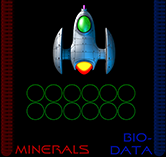
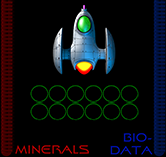
Lightnings are now visible in hires4x. Transport captain is now visible in hires4x. Crew balls (and red dead crew balls) now align perfectly in lander UI. Also created a lame-ass lander afterburner gfx for the UI (Lander-057.png)... Damon, I can bet my sweet ass you can draw a better one. Also requi

Changed region(s): [[0.1506, 0.535, 0.8434, 0.7643]]

diff --git a/sc2/src/uqm/planets/lander.c b/sc2/src/uqm/planets/lander.c
@@ -754,8 +754,8 @@ DeltaLanderCrew (SIZE crew_delta, COUNT which_disaster)
 	}
 	else
 	{
-		s.origin.x = 27 + ((9 * RESOLUTION_FACTOR) * (crew_delta % NUM_CREW_COLS)); // JMS_GFX
-		s.origin.y = (53 * RESOLUTION_FACTOR - (9 * RESOLUTION_FACTOR * (crew_delta / NUM_CREW_COLS))) - 3; // JMS_GFX
+		s.origin.x = 32 + ((9 * RESOLUTION_FACTOR) * (crew_delta % NUM_CREW_COLS)); // JMS_GFX
+		s.origin.y = (52 * RESOLUTION_FACTOR - (9 * RESOLUTION_FACTOR * (crew_delta / NUM_CREW_COLS))); // JMS_GFX
 	}
 
 	OldContext = SetContext (RadarContext);
@@ -1466,6 +1466,7 @@ AddLightning (void)
 		LightningElementPtr->playerNr = PS_NON_PLAYER;
 		LightningElementPtr->state_flags = FINITE_LIFE;
 		LightningElementPtr->preprocess_func = lightning_process;
+		
 		if (TFB_Random () % 100 >= 25)
 			LightningElementPtr->mass_points = 0; /* harmless */
 		else
@@ -1473,14 +1474,29 @@ AddLightning (void)
 
 		rand_val = TFB_Random ();
 		LightningElementPtr->life_span = 10 + (HIWORD (rand_val) % 10) + 1;
-		LightningElementPtr->next.location.x = (curLanderLoc.x
+		
+		if (RESOLUTION_FACTOR == 0)
+		{
+			LightningElementPtr->next.location.x = (curLanderLoc.x
 				+ ((MAP_WIDTH << MAG_SHIFT) - ((SURFACE_WIDTH >> 1) - 6))
 				+ (LOBYTE (rand_val) % (SURFACE_WIDTH - 12))
 				) % (MAP_WIDTH << MAG_SHIFT);
-		LightningElementPtr->next.location.y = (curLanderLoc.y
+			LightningElementPtr->next.location.y = (curLanderLoc.y
 				+ ((MAP_HEIGHT << MAG_SHIFT) - ((SURFACE_HEIGHT >> 1) - 6))
 				+ (HIBYTE (rand_val) % (SURFACE_HEIGHT - 12))
 				) % (MAP_HEIGHT << MAG_SHIFT);
+		}
+		else
+		{
+			LightningElementPtr->next.location.x = (curLanderLoc.x
+				+ ((MAP_WIDTH << MAG_SHIFT) - ((SURFACE_WIDTH >> 1) - 6))
+				+ (rand_val % (SURFACE_WIDTH - (12 << RESOLUTION_FACTOR)))
+				) % (MAP_WIDTH << MAG_SHIFT);
+			LightningElementPtr->next.location.y = (curLanderLoc.y
+				+ ((MAP_HEIGHT << MAG_SHIFT) - ((SURFACE_HEIGHT >> 1) - 6))
+				+ (rand_val % (SURFACE_HEIGHT - (12 << RESOLUTION_FACTOR)))
+				) % (MAP_HEIGHT << MAG_SHIFT);
+		}
 
 		LightningElementPtr->cycle = LightningElementPtr->life_span;
 		
